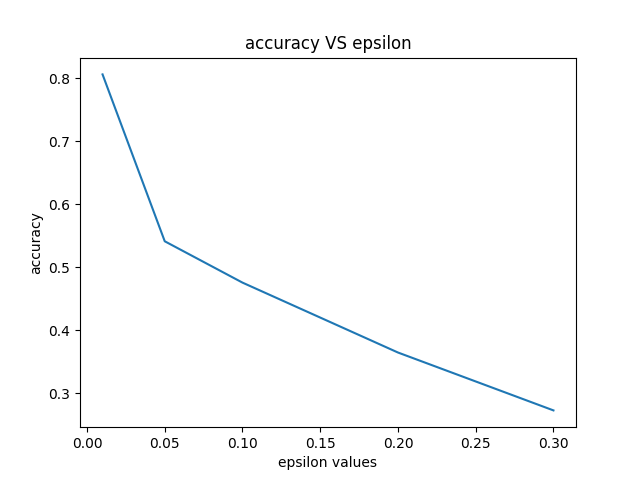
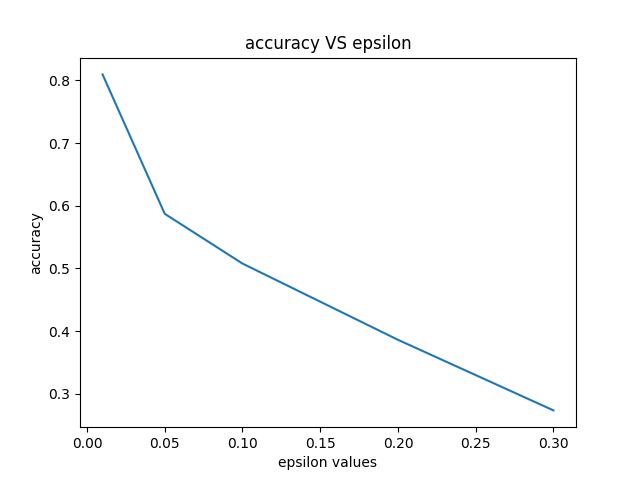
added targeted whole testset

diff --git a/Ex3/targeted_FGSM.py b/Ex3/targeted_FGSM.py
@@ -27,9 +27,6 @@ transform = transforms.Compose([
             ])
 
 testset = torchvision.datasets.CIFAR10(root='./data', train=False, download=False, transform=transform)
-torch.manual_seed(42)
-subset_indices = torch.randperm(len(testset))[:1000]
-subset_testset = Subset(testset, subset_indices)
 
 classes = ['airplane', 'car', 'bird', 'cat', 'deer', 'dog', 'frog', 'horse', 'ship', 'truck']
 denormalize = transforms.Normalize((-0.4914 / 0.2023, -0.4822 / 0.1994, -0.4465 / 0.2010), 
@@ -40,7 +37,7 @@ class FGSM_targeted():
         
         self.target_class = target_class
         self.model  = model
-        self.test_loader =  torch.utils.data.DataLoader(subset_testset, batch_size = 1, shuffle = False)  
+        self.test_loader =  torch.utils.data.DataLoader(testset, batch_size = 1, shuffle = False)  
         self.loss   = torch.nn.CrossEntropyLoss()
         self.device = torch.device("cuda" if torch.cuda.is_available() else "cpu")
         self.examples = []
